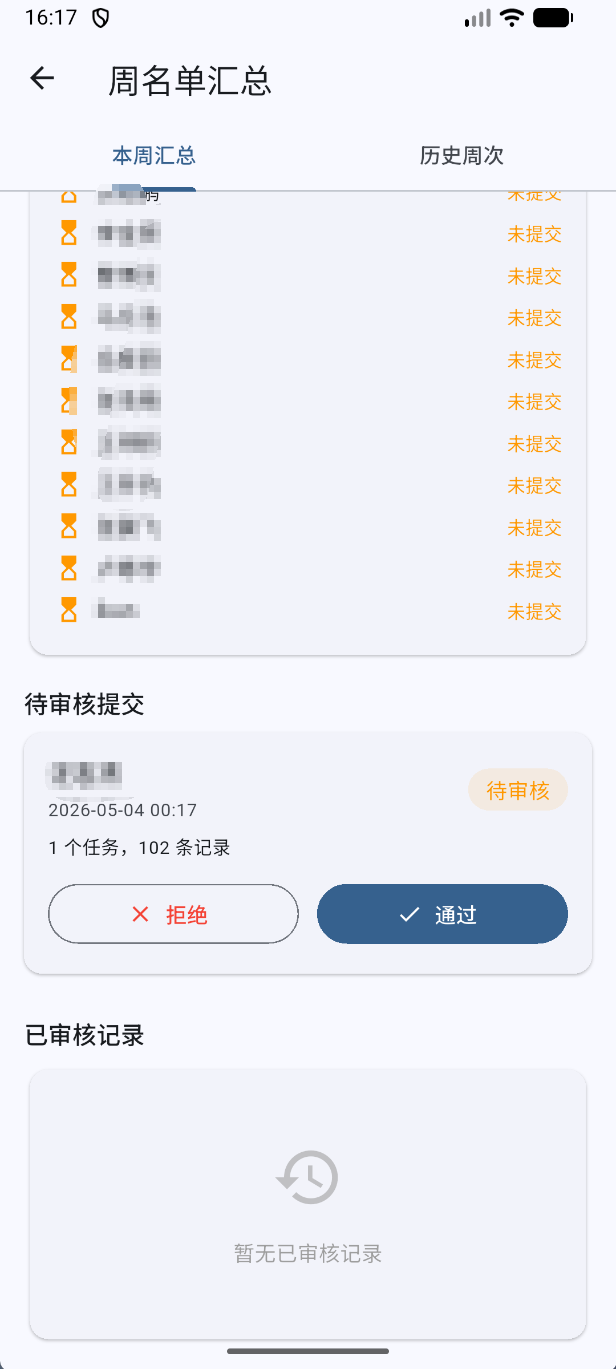
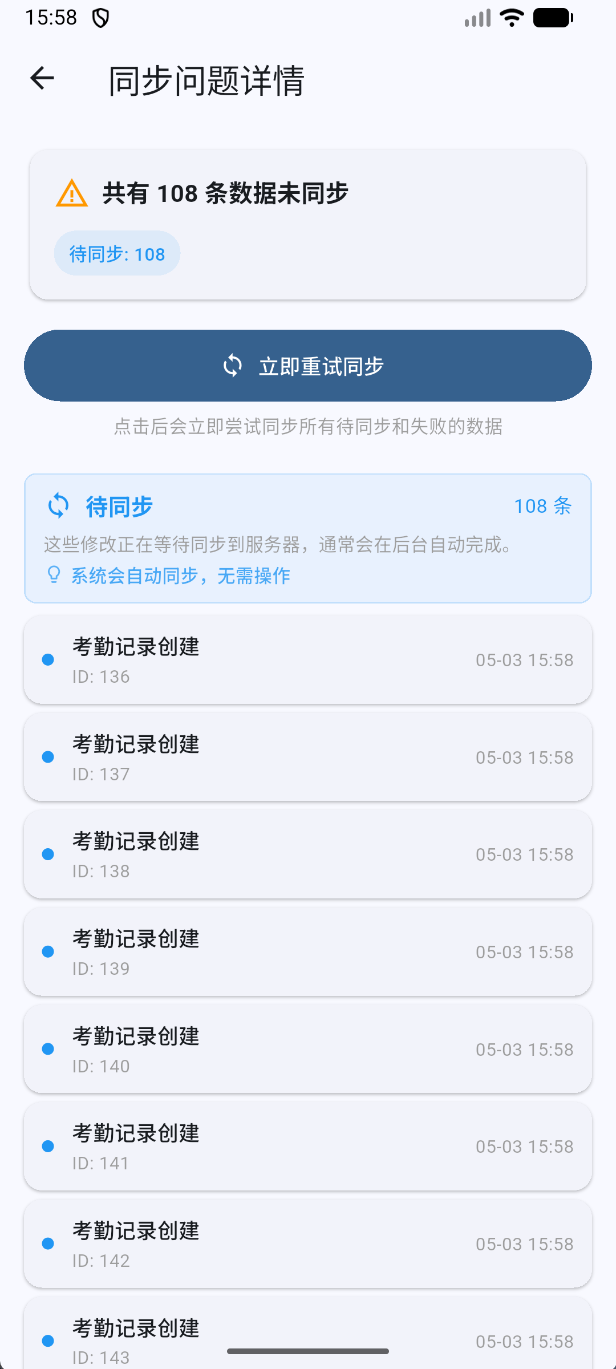
fix: v0.6.3 - 403保护性拒绝跳过, Dio日志增强, 同步兼容修复

diff --git a/app/lib/core/sync/sync_service.dart b/app/lib/core/sync/sync_service.dart
@@ -162,7 +162,9 @@ class SyncService {
                 }
                 
                 if (reason.contains('记录不存在') ||
-                    reason.contains('已提交审核')) {
+                    reason.contains('已提交审核') ||
+                    reason.contains('该任务已放弃') ||
+                    reason.contains('不可修改记录')) {
                   // 跳过并标记为已同步
                   await _local.markSynced(matchedItem.id);
                   successCount++;
@@ -283,6 +285,13 @@ class SyncService {
               'SKIP (404): ${item.entityType}/${item.action} #${item.entityId}',
             );
             successCount++;
+          } else if (_isProtected403(errorStr)) {
+            // 服务端保护性拒绝（已提交审核/已放弃/不可修改），跳过
+            await _local.markSynced(item.id);
+            successCount++;
+            LoggerService.sync(
+              'SKIP (403 protected): ${item.entityType}/${item.action} #${item.entityId} - $errorStr',
+            );
           } else if (isNetwork) {
             await _local.markSyncFailed(item.id, retryCount: newRetry);
             failCount++;
@@ -340,6 +349,16 @@ class SyncService {
       LoggerService.sync('JSON 解析失败: $payloadJson - $e', isError: true);
       return <String, dynamic>{};
     }
+  }
+
+  /// 判断是否是服务端保护性 403（已提交审核/已放弃/不可修改）
+  /// 这类 403 是合理的，客户端应跳过而非重试
+  bool _isProtected403(String errorStr) {
+    if (!errorStr.contains('403')) return false;
+    return errorStr.contains('该记录已提交审核') ||
+        errorStr.contains('不可修改。如需修改，请先撤回提交') ||
+        errorStr.contains('该任务已放弃') ||
+        errorStr.contains('不可修改记录');
   }
 
   /// 在 batchItems 中查找匹配 task_id + student_id 的 SyncQueueData

diff --git a/app/lib/features/settings/presentation/settings_page.dart b/app/lib/features/settings/presentation/settings_page.dart
@@ -243,7 +243,7 @@ class SettingsPage extends ConsumerWidget {
           ListTile(
             leading: const Icon(Icons.system_update),
             title: const Text('检查更新'),
-            subtitle: const Text('当前版本: 0.6.2'),
+            subtitle: const Text('当前版本: 0.6.3'),
             trailing: const Icon(Icons.chevron_right),
             onTap: () => _checkUpdate(context, ref),
           ),
@@ -637,7 +637,7 @@ class SettingsPage extends ConsumerWidget {
       final downloadUrl = response['download_url'] as String;
       final releaseNotes = response['release_notes'] as String;
 
-      const currentVersion = '0.6.2';
+      const currentVersion = '0.6.3';
       LoggerService.sync('当前版本: $currentVersion, 最新版本: $latestVersion');
 
       if (latestVersion == currentVersion) {
@@ -1029,7 +1029,7 @@ class _AboutPageState extends ConsumerState<AboutPage> {
 
               Center(
                 child: Text(
-                  '考勤助手 v0.6.2',
+                  '考勤助手 v0.6.3',
                   style: TextStyle(
                     color: Theme.of(
                       context,

diff --git a/app/lib/core/network/api_client.dart b/app/lib/core/network/api_client.dart
@@ -52,11 +52,22 @@ class ApiClient {
         onError: (error, handler) {
           final statusCode = error.response?.statusCode;
           final uri = error.requestOptions.uri;
+          final responseData = error.response?.data;
+          
+          // 提取 detail 字段
+          String detail = '';
+          if (responseData is Map) {
+            detail = responseData['detail']?.toString() ?? '';
+          } else if (responseData is String) {
+            detail = responseData;
+          }
           
           // statusCode null 时区分具体错误类型
           String errorMsg;
           if (statusCode != null) {
-            errorMsg = '$statusCode $uri: ${error.message}';
+            errorMsg = detail.isNotEmpty
+                ? '$statusCode $uri: $detail'
+                : '$statusCode $uri: ${error.message}';
           } else if (error.type == DioExceptionType.connectionTimeout ||
                      error.type == DioExceptionType.sendTimeout ||
                      error.type == DioExceptionType.receiveTimeout) {

diff --git a/app/lib/features/debug/debug_page.dart b/app/lib/features/debug/debug_page.dart
@@ -451,7 +451,7 @@ class _OverviewTabState extends ConsumerState<_OverviewTab> {
               padding: const EdgeInsets.all(12),
               child: Column(
                 children: [
-                  _InfoRow(label: 'App版本', value: '0.6.2'),
+                  _InfoRow(label: 'App版本', value: '0.6.3'),
                   _InfoRow(
                       label: 'API地址', value: ApiClient.defaultBaseUrl),
                   _InfoRow(label: '平台', value: Platform.operatingSystem),

diff --git a/app/lib/features/debug/release_check_page.dart b/app/lib/features/debug/release_check_page.dart
@@ -12,7 +12,7 @@ import '../../../shared/providers.dart';
 import '../../../shared/widgets/toast.dart';
 
 // TODO: 使用 package_info_plus 读取真实 App 版本，避免手动维护
-const _appVersion = '0.6.2';
+const _appVersion = '0.6.3';
 
 class ReleaseCheckPage extends ConsumerStatefulWidget {
   const ReleaseCheckPage({super.key});

diff --git a/server/main.py b/server/main.py
@@ -8,7 +8,7 @@ from app.models import *
 app = FastAPI(
     title="考勤助手 API",
     description="考勤助手 App 服务端接口",
-    version="0.6.2",
+    version="0.6.3",
 )
 
 app.include_router(auth.router, prefix="/api")
@@ -36,7 +36,7 @@ def health():
     return {
         "status": "ok",
         "timestamp": datetime.utcnow().isoformat(),
-        "version": "0.6.2",
+        "version": "0.6.3",
     }
 
 

diff --git a/CHANGELOG.md b/CHANGELOG.md
@@ -4,6 +4,18 @@
 
 ---
 
+## v0.6.3
+
+升级兼容修复版本。
+
+### 同步兼容修复
+
+- **403 保护性拒绝跳过** - 旧版本升级后，历史 record/update 因服务端保护（已提交审核/已放弃/不可修改）返回 403 时，客户端自动跳过而非无限重试
+- **批量同步补充** - 批量同步 failed reason 包含"该任务已放弃"/"不可修改记录"时也安全跳过
+- **Dio 错误日志增强** - 403/400/500 错误日志现在打印 response.data 中的 detail 字段，便于排查
+
+---
+
 ## v0.6.2
 
 发布后体验修复版本，不涉及业务逻辑变更。
